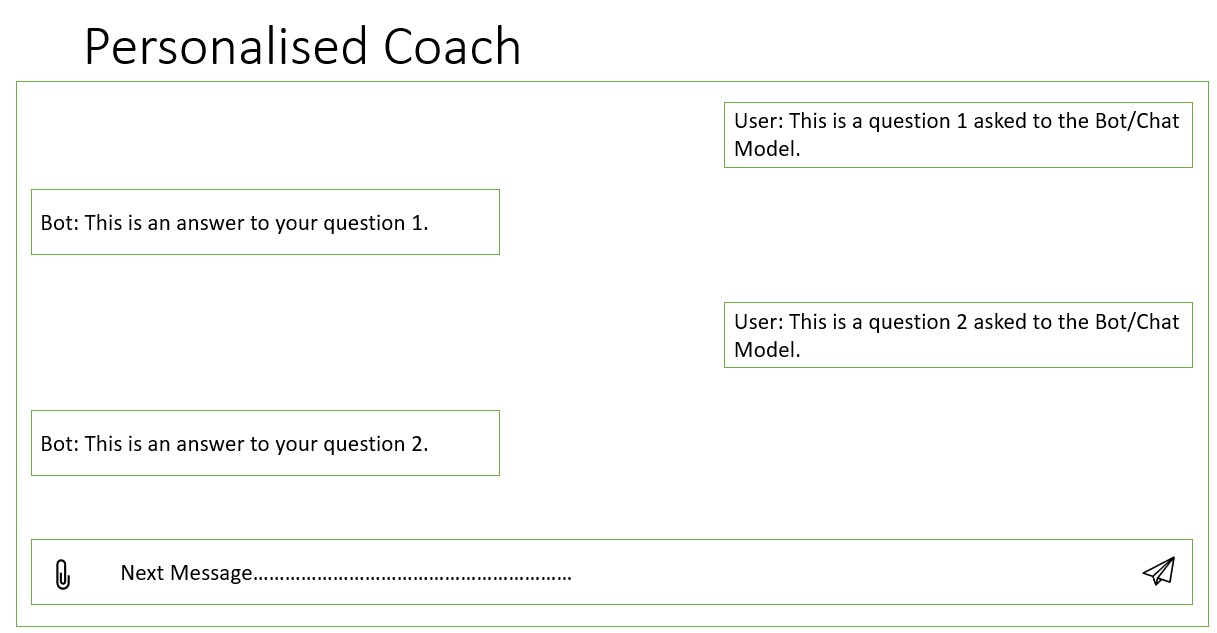
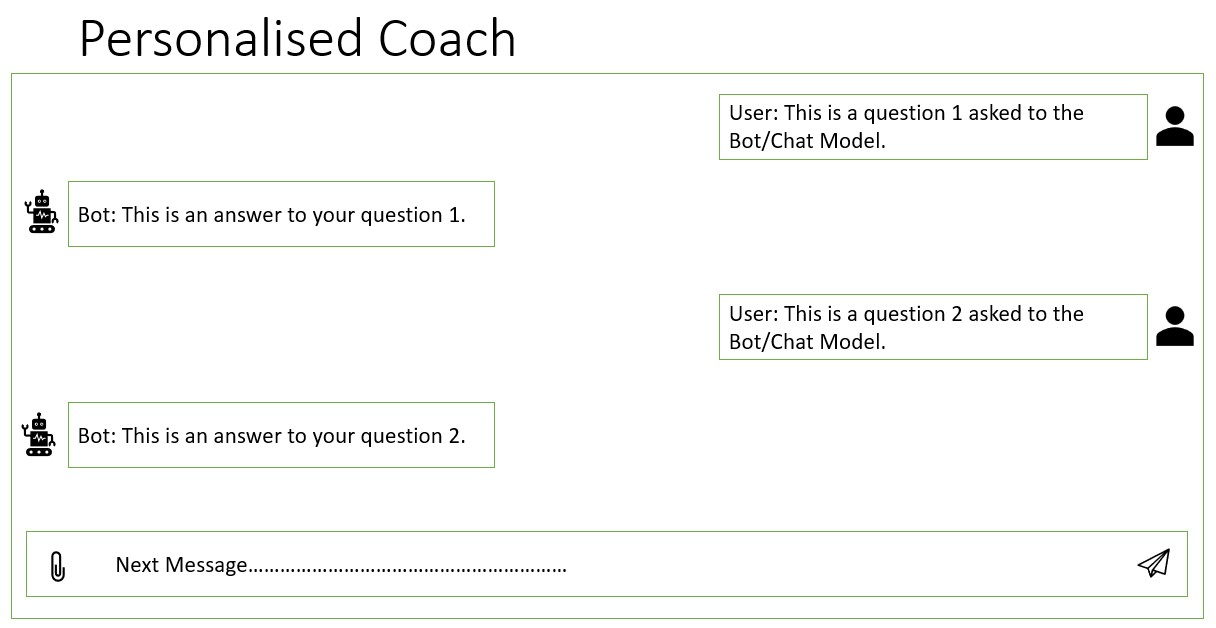
Updated personal-coach-chat ui, erd and high level architecture design.

diff --git a/README.md b/README.md
@@ -1,8 +1,11 @@
 # PlayIQ
 This project will help individual athletes and sports team for improving there performance.
 
-1. Create front end for creating short/cut videos out of an entire video.
+1. High level architecture of the system
+<img src="wireframes\high-level-architecture.jpg">
+2. Create front end for creating short/cut videos out of an entire video.
 <img src="wireframes\snipvid-wireframe.jpg">
-2. Create front end for our interaction with chat model.
+3. Create front end for our interaction with chat model.
 <img src="wireframes\personalised_coach-wireframe.jpg">
-3. Create DB structure for our web app.
+4. Create DB structure for our web app.
+<img src="wireframes\personalised_coach-wireframe.jpg">
